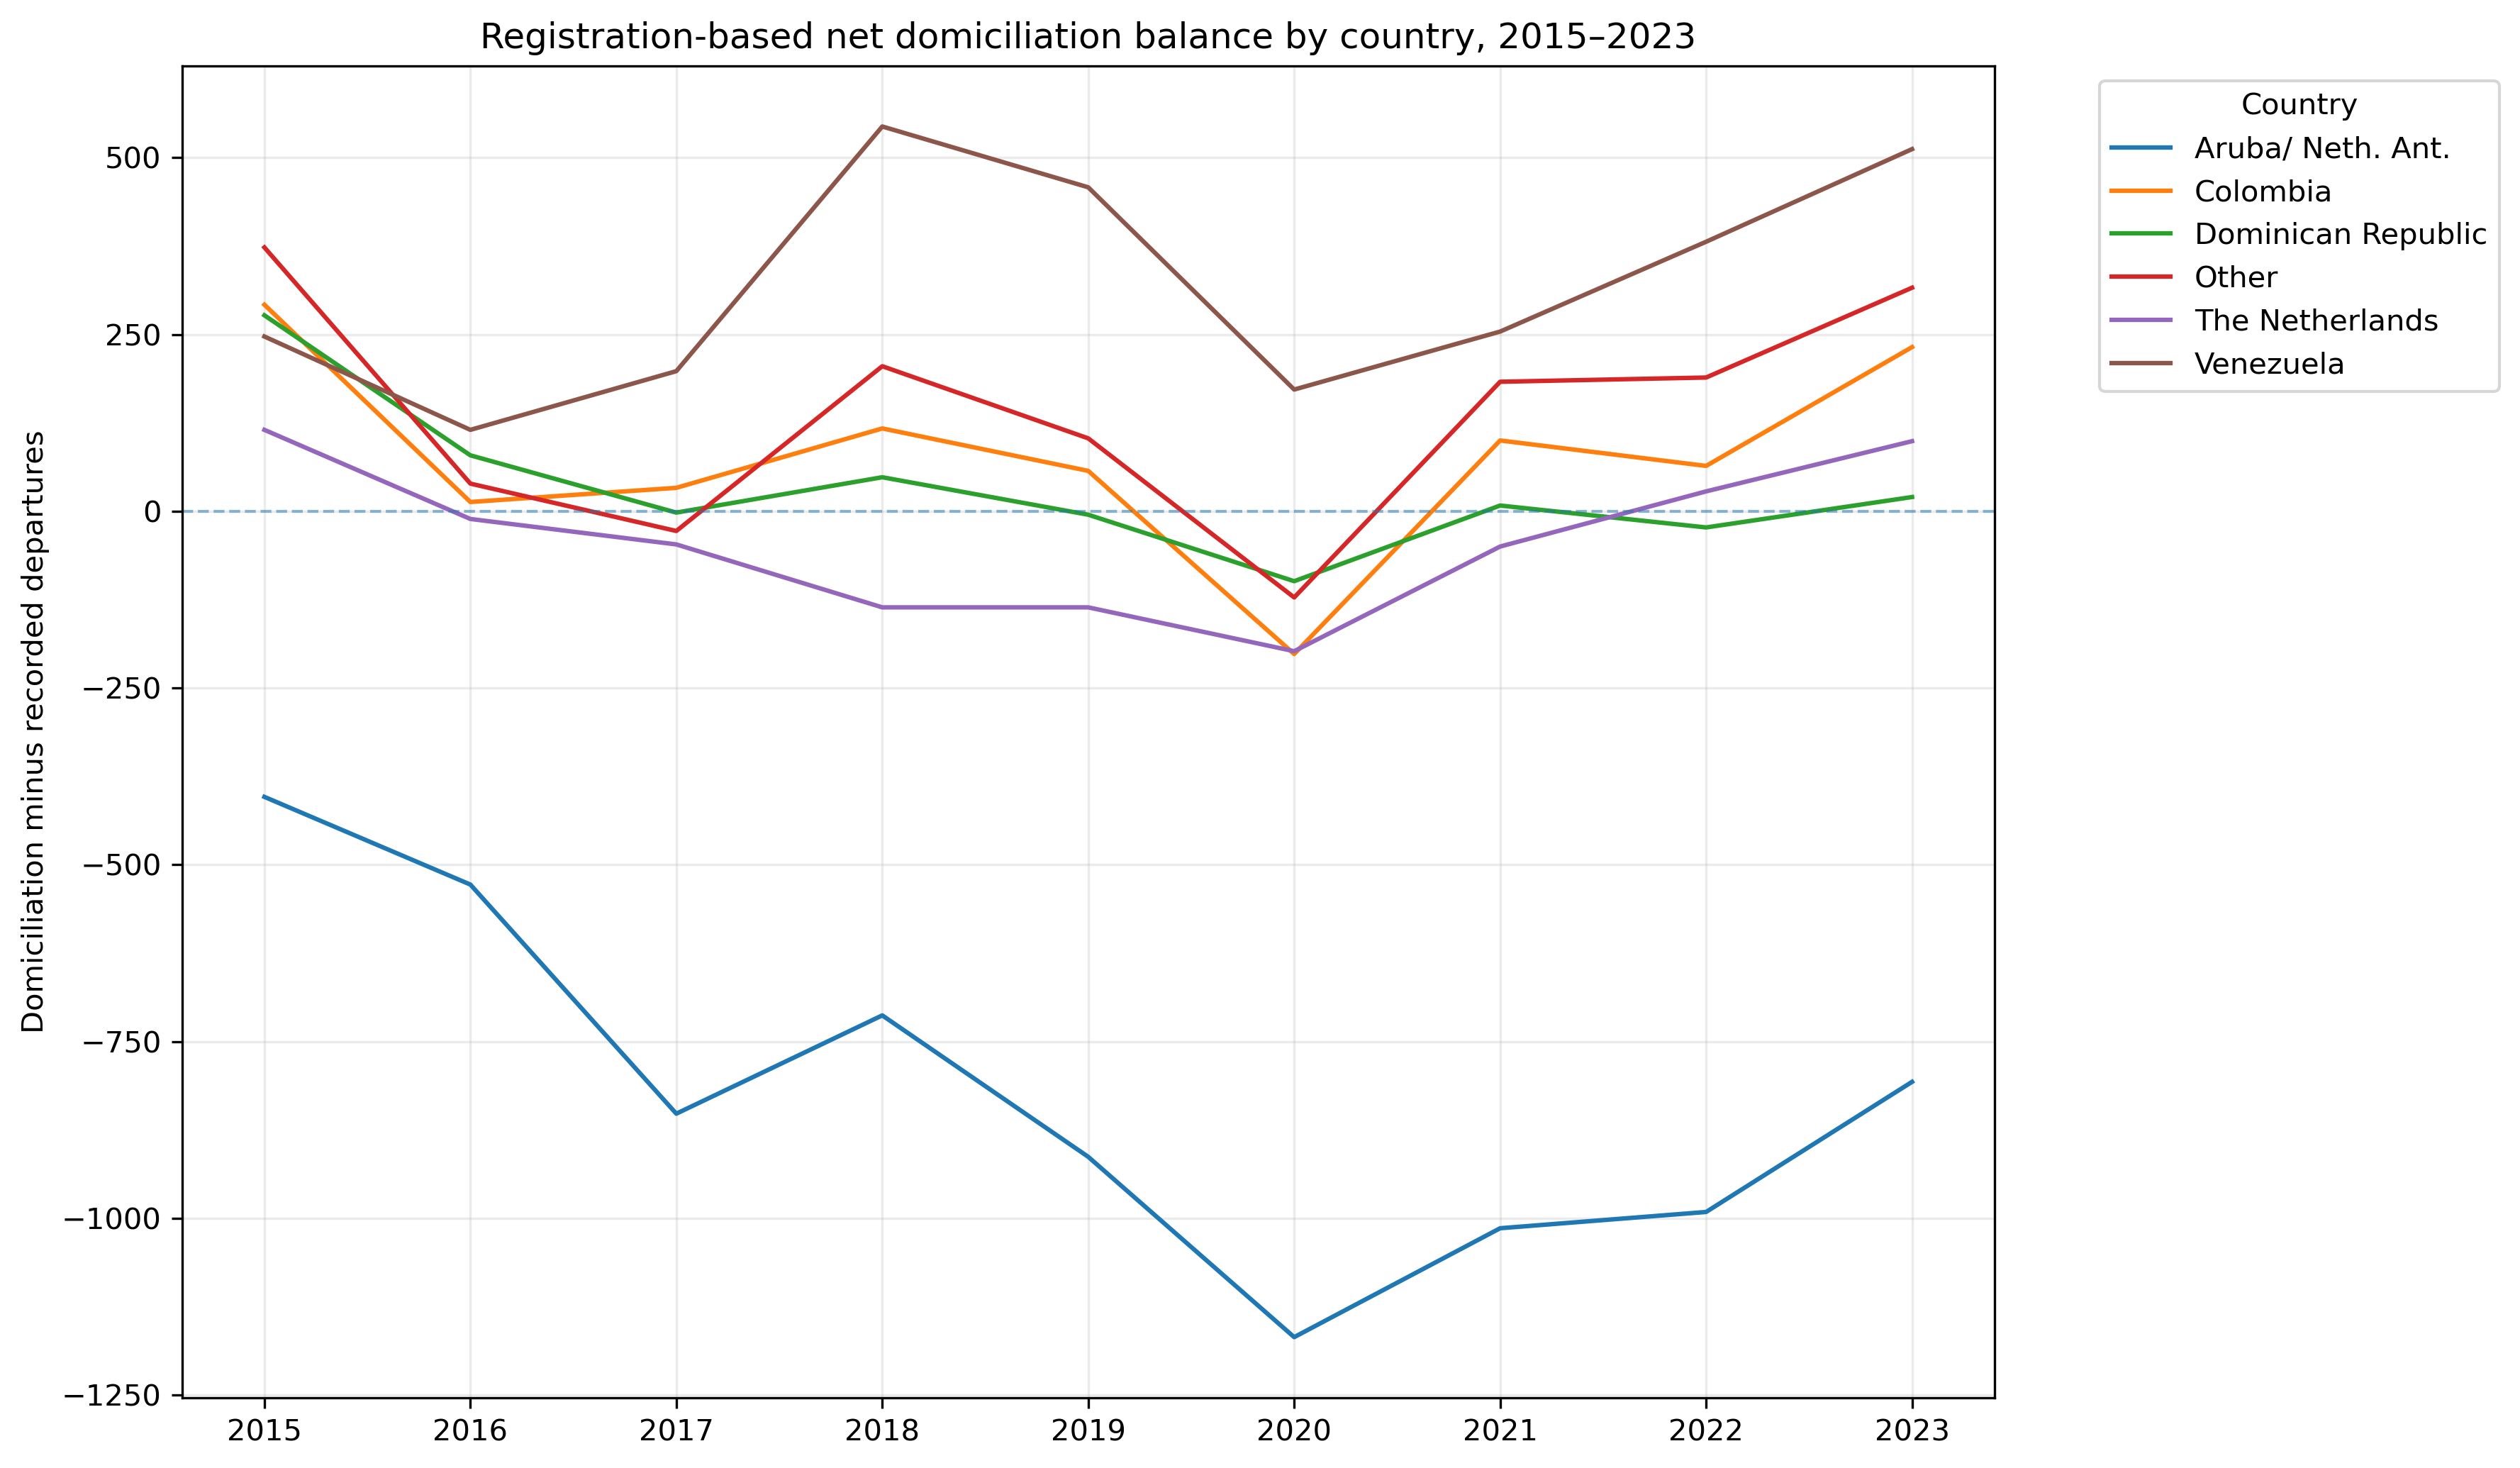
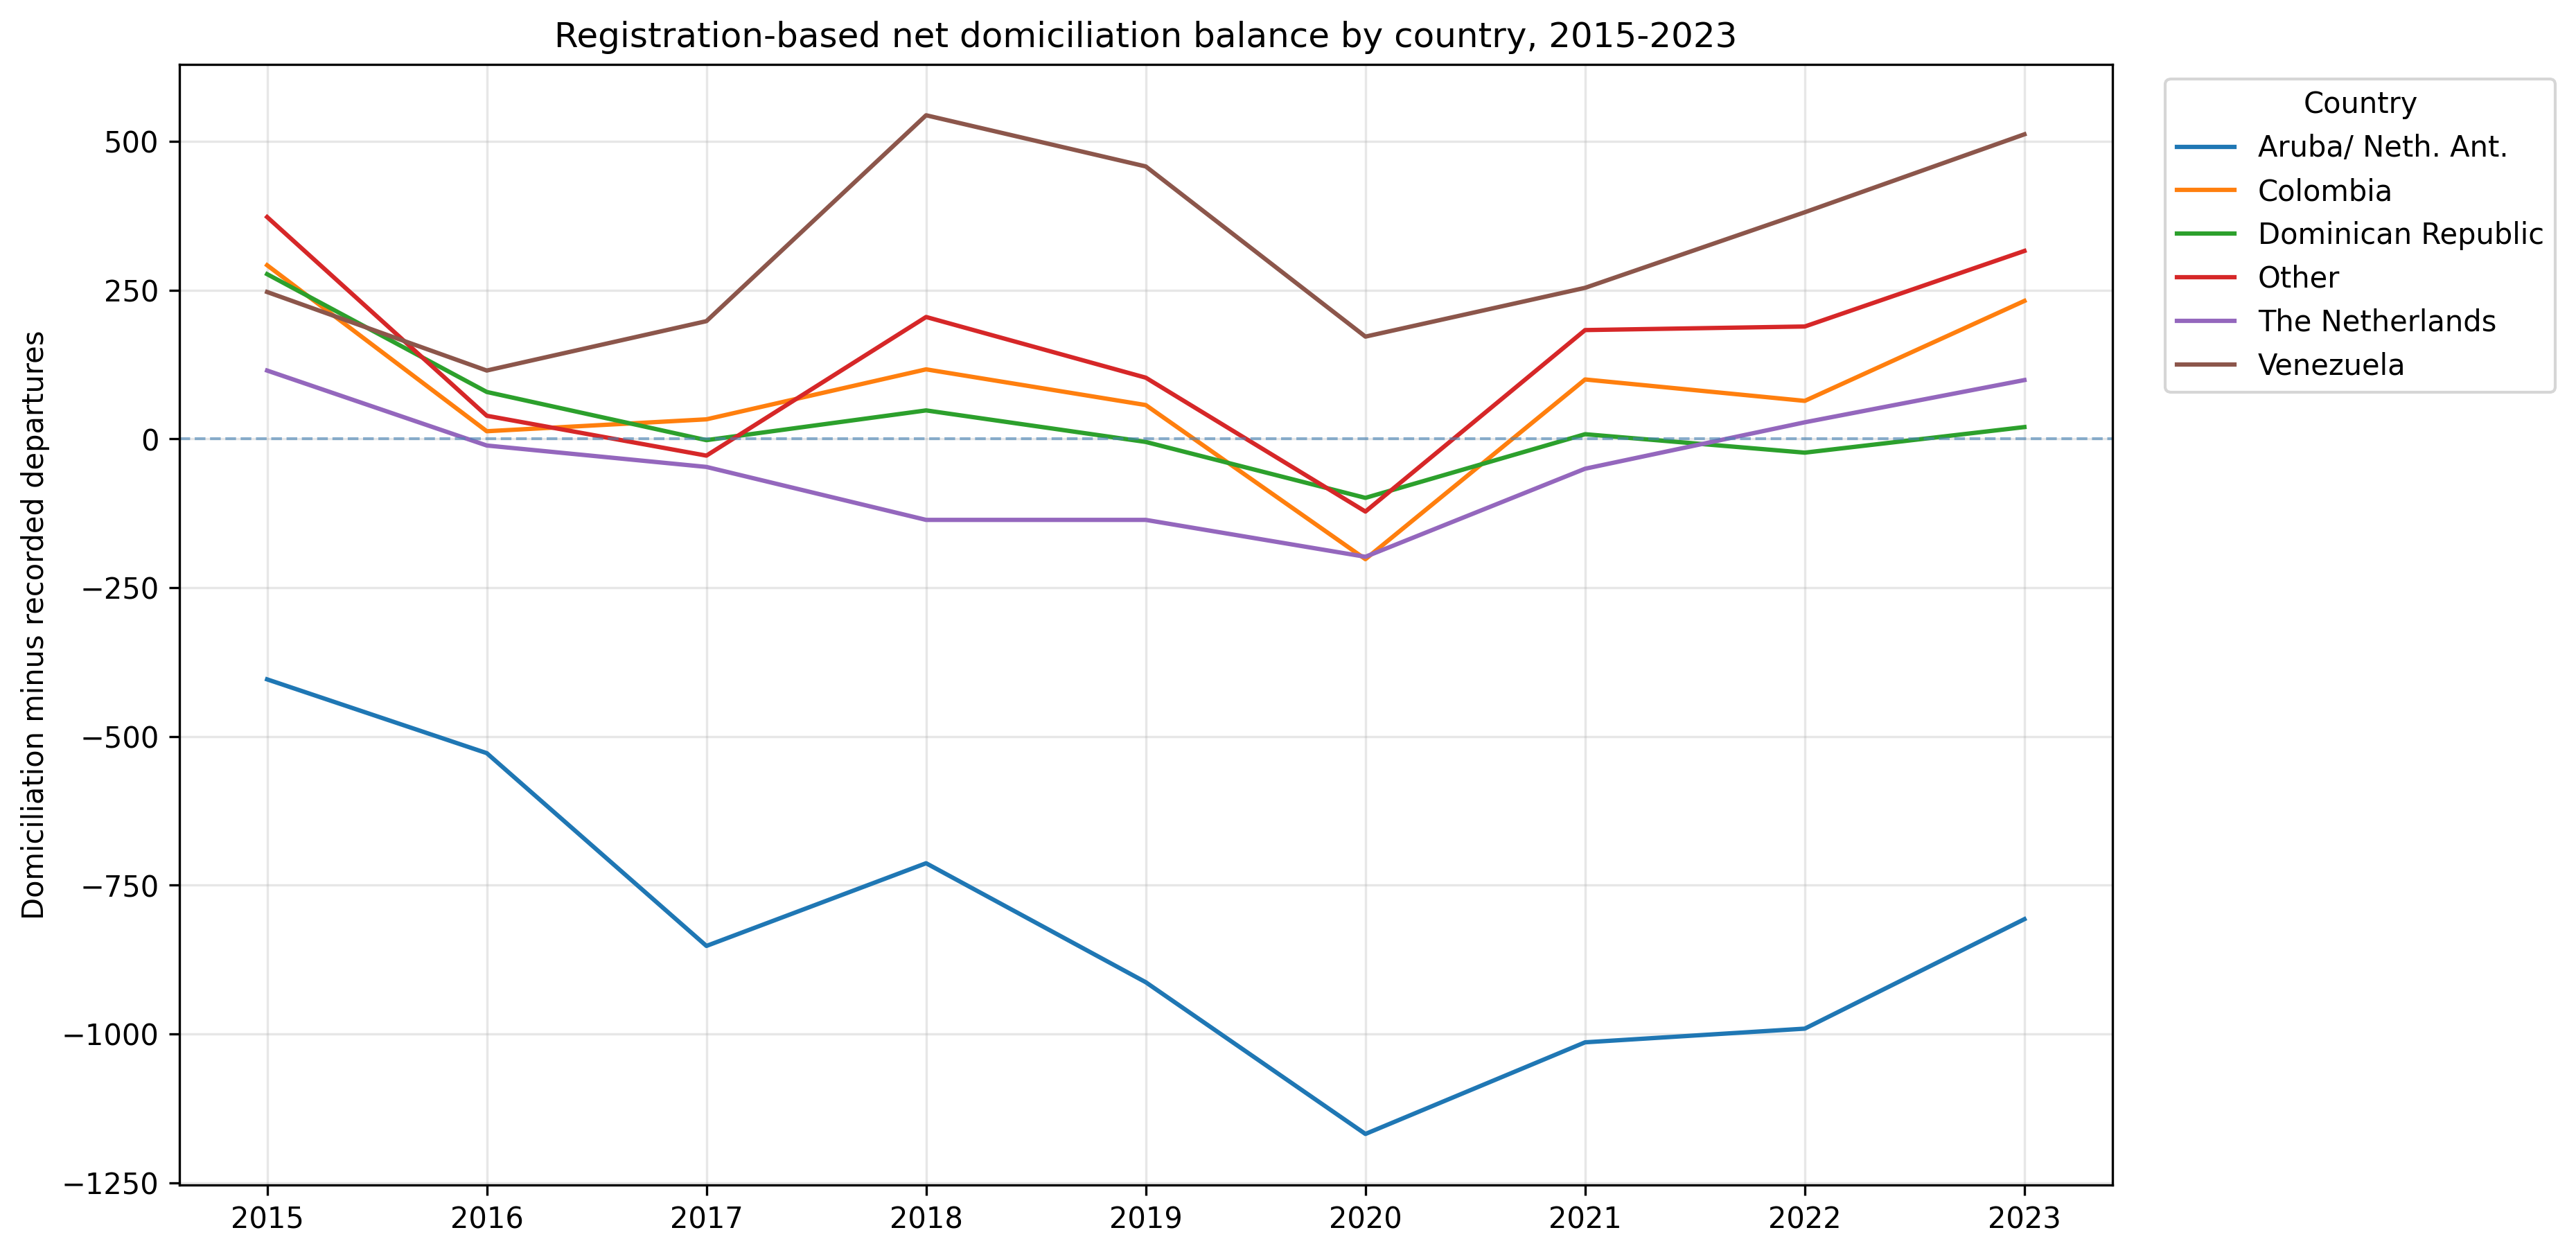
feat(analysis): add annual_country_flow notebook; add departures load script
Rebuilds the net domiciliation balance figure from validated, bug-fixed domiciliation and departures tables (previously built on an unrecoverable notebook with a vacuous smoke test).

diff --git a/scripts/load_departures.py b/scripts/load_departures.py
@@ -1,0 +1,176 @@
+"""
+Load departures by country of birth and sex (Table 1.12) into DuckDB.
+"""
+import logging
+import sys
+from pathlib import Path
+
+import duckdb
+import pandas as pd
+
+logging.getLogger("config.project_paths").setLevel(logging.WARNING)
+
+ROOT = Path(__file__).resolve().parent.parent
+sys.path.insert(0, str(ROOT))
+
+from config.project_paths import DATA_RAW, DATA_PROCESSED, DB_FILES
+from src.data_loader import save_to_parquet, register_in_duckdb
+
+logger = logging.getLogger(__name__)
+
+SOURCE_FILE = "Table-1.12-Departures-by-country-of-birth-and-sex.xlsx"
+PARQUET_NAME = "departures.parquet"
+VIEW_NAME = "departures"
+TOTALS_PARQUET_NAME = "departures_total.parquet"
+TOTALS_VIEW_NAME = "departures_total"
+
+TOTALS_LABEL = "Total Departures:"  # confirmed via DuckDB distinct-country check
+EXCLUDE_LABELS: list[str] = []  # no stray stats rows found in this source file
+
+
+def load_raw(source_file: str = SOURCE_FILE, raw_dir: Path = DATA_RAW) -> pd.DataFrame:
+    """Load the raw CBS Excel file, skipping the title row above the header."""
+    path = raw_dir / source_file
+    if not path.exists():
+        raise FileNotFoundError(f"Source file not found: {path}")
+    return pd.read_excel(path, skiprows=1, header=None)
+
+
+def clean_and_reshape(raw_df: pd.DataFrame) -> tuple[pd.DataFrame, pd.DataFrame]:
+    """Reshape from wide (year_sex columns) to tidy long format.
+
+    Returns (country_df, totals_df) — the totals row is split out and
+    persisted separately rather than mixed in with country-level data.
+    """
+    year_row = pd.to_numeric(raw_df.iloc[0], errors="coerce").ffill()
+    sex_row = raw_df.iloc[1]
+
+    new_columns = [
+        "Country" if sex == "Country" else f"{int(year)}_{sex}"
+        for year, sex in zip(year_row, sex_row)
+    ]
+
+    df = raw_df.iloc[2:].copy()
+    df.columns = new_columns
+    df = df.dropna(how="all").reset_index(drop=True)
+
+    df = df[~df["Country"].astype(str).str.startswith("Source:", na=False)].reset_index(drop=True)
+
+    tidy = df.melt(id_vars="Country", var_name="year_sex", value_name="value")
+    tidy[["year", "sex"]] = tidy["year_sex"].str.split("_", expand=True)
+    tidy = tidy.drop(columns="year_sex")
+
+    tidy["year"] = pd.to_numeric(tidy["year"], errors="coerce").astype("Int64")
+    tidy["value"] = pd.to_numeric(tidy["value"], errors="coerce")
+
+    totals = tidy[tidy["Country"] == TOTALS_LABEL].copy()
+    tidy = tidy[tidy["Country"] != TOTALS_LABEL]
+
+    if EXCLUDE_LABELS:
+        tidy = tidy[~tidy["Country"].isin(EXCLUDE_LABELS)]
+    tidy = tidy.dropna(subset=["Country"])
+
+    tidy["value"] = tidy["value"].astype("Int64")
+    totals["value"] = totals["value"].astype("Int64")
+
+    tidy = tidy.rename(columns={"Country": "country"})
+    tidy = tidy[["country", "year", "sex", "value"]].sort_values(
+        ["country", "year", "sex"]
+    ).reset_index(drop=True)
+
+    totals = totals.rename(columns={"Country": "country"})[["year", "sex", "value"]]
+
+    if totals.empty:
+        raise ValueError(
+            f"No rows matched TOTALS_LABEL={TOTALS_LABEL!r} — check the exact "
+            "label text in the source sheet (e.g. trailing colon, spacing)."
+        )
+
+    return tidy, totals
+
+
+def validate(tidy_df: pd.DataFrame, totals_df: pd.DataFrame) -> None:
+    """Confirm country-level sums reconcile against reported totals."""
+    check = (
+        tidy_df.groupby(["year", "sex"])["value"]
+        .sum()
+        .reset_index()
+        .rename(columns={"value": "computed_total"})
+    )
+    validation = check.merge(totals_df, on=["year", "sex"], how="left", indicator=True)
+
+    missing = validation[validation["_merge"] != "both"]
+    if not missing.empty:
+        raise ValueError(f"No matching totals row for:\n{missing}")
+
+    mismatches = validation[validation["computed_total"] != validation["value"]]
+    if not mismatches.empty:
+        raise ValueError(f"Country sums do not reconcile with totals:\n{mismatches}")
+
+    logger.info(
+        "Validation passed: %d year/sex combinations reconcile.", len(validation)
+    )
+
+
+def persist(tidy_df: pd.DataFrame, totals_df: pd.DataFrame) -> None:
+    """Save both tables to parquet and register them in DuckDB."""
+    db_path = DB_FILES / "aruba.duckdb"
+
+    country_parquet = save_to_parquet(tidy_df, PARQUET_NAME, base_dir=DATA_PROCESSED)
+    register_in_duckdb(country_parquet, VIEW_NAME, db_path=db_path)
+    logger.info("Parquet saved: %s", country_parquet)
+    logger.info("DuckDB table registered: %s", VIEW_NAME)
+
+    totals_parquet = save_to_parquet(totals_df, TOTALS_PARQUET_NAME, base_dir=DATA_PROCESSED)
+    register_in_duckdb(totals_parquet, TOTALS_VIEW_NAME, db_path=db_path)
+    logger.info("Parquet saved: %s", totals_parquet)
+    logger.info("DuckDB table registered: %s", TOTALS_VIEW_NAME)
+
+
+def smoke_test() -> pd.DataFrame:
+    """Re-query both tables FROM DuckDB and re-validate."""
+    con = duckdb.connect(str(DB_FILES / "aruba.duckdb"))
+    country_df = con.execute(f"SELECT * FROM {VIEW_NAME}").df()
+    totals_df = con.execute(f"SELECT * FROM {TOTALS_VIEW_NAME}").df()
+    con.close()
+
+    logger.info(
+        "%s: %d rows, %d countries, years %d\u2013%d",
+        VIEW_NAME,
+        len(country_df),
+        country_df["country"].nunique(),
+        country_df["year"].min(),
+        country_df["year"].max(),
+    )
+
+    check = (
+        country_df.groupby(["year", "sex"])["value"]
+        .sum()
+        .reset_index()
+        .rename(columns={"value": "computed_total"})
+    )
+    validation = check.merge(totals_df, on=["year", "sex"], how="left", indicator=True)
+
+    missing = validation[validation["_merge"] != "both"]
+    if not missing.empty:
+        raise AssertionError(f"Smoke test FAILED \u2014 no totals row for:\n{missing}")
+
+    mismatches = validation[validation["computed_total"] != validation["value"]]
+    if not mismatches.empty:
+        raise AssertionError(f"Smoke test FAILED \u2014 reconciliation mismatch:\n{mismatches}")
+
+    logger.info("Smoke test PASSED: all %d year/sex combinations reconcile.", len(validation))
+    return country_df
+
+
+def main() -> None:
+    logging.basicConfig(level=logging.INFO, format="%(levelname)s: %(message)s")
+    raw_df = load_raw()
+    tidy_df, totals_df = clean_and_reshape(raw_df)
+    validate(tidy_df, totals_df)
+    persist(tidy_df, totals_df)
+    smoke_test()
+
+
+if __name__ == "__main__":
+    main()